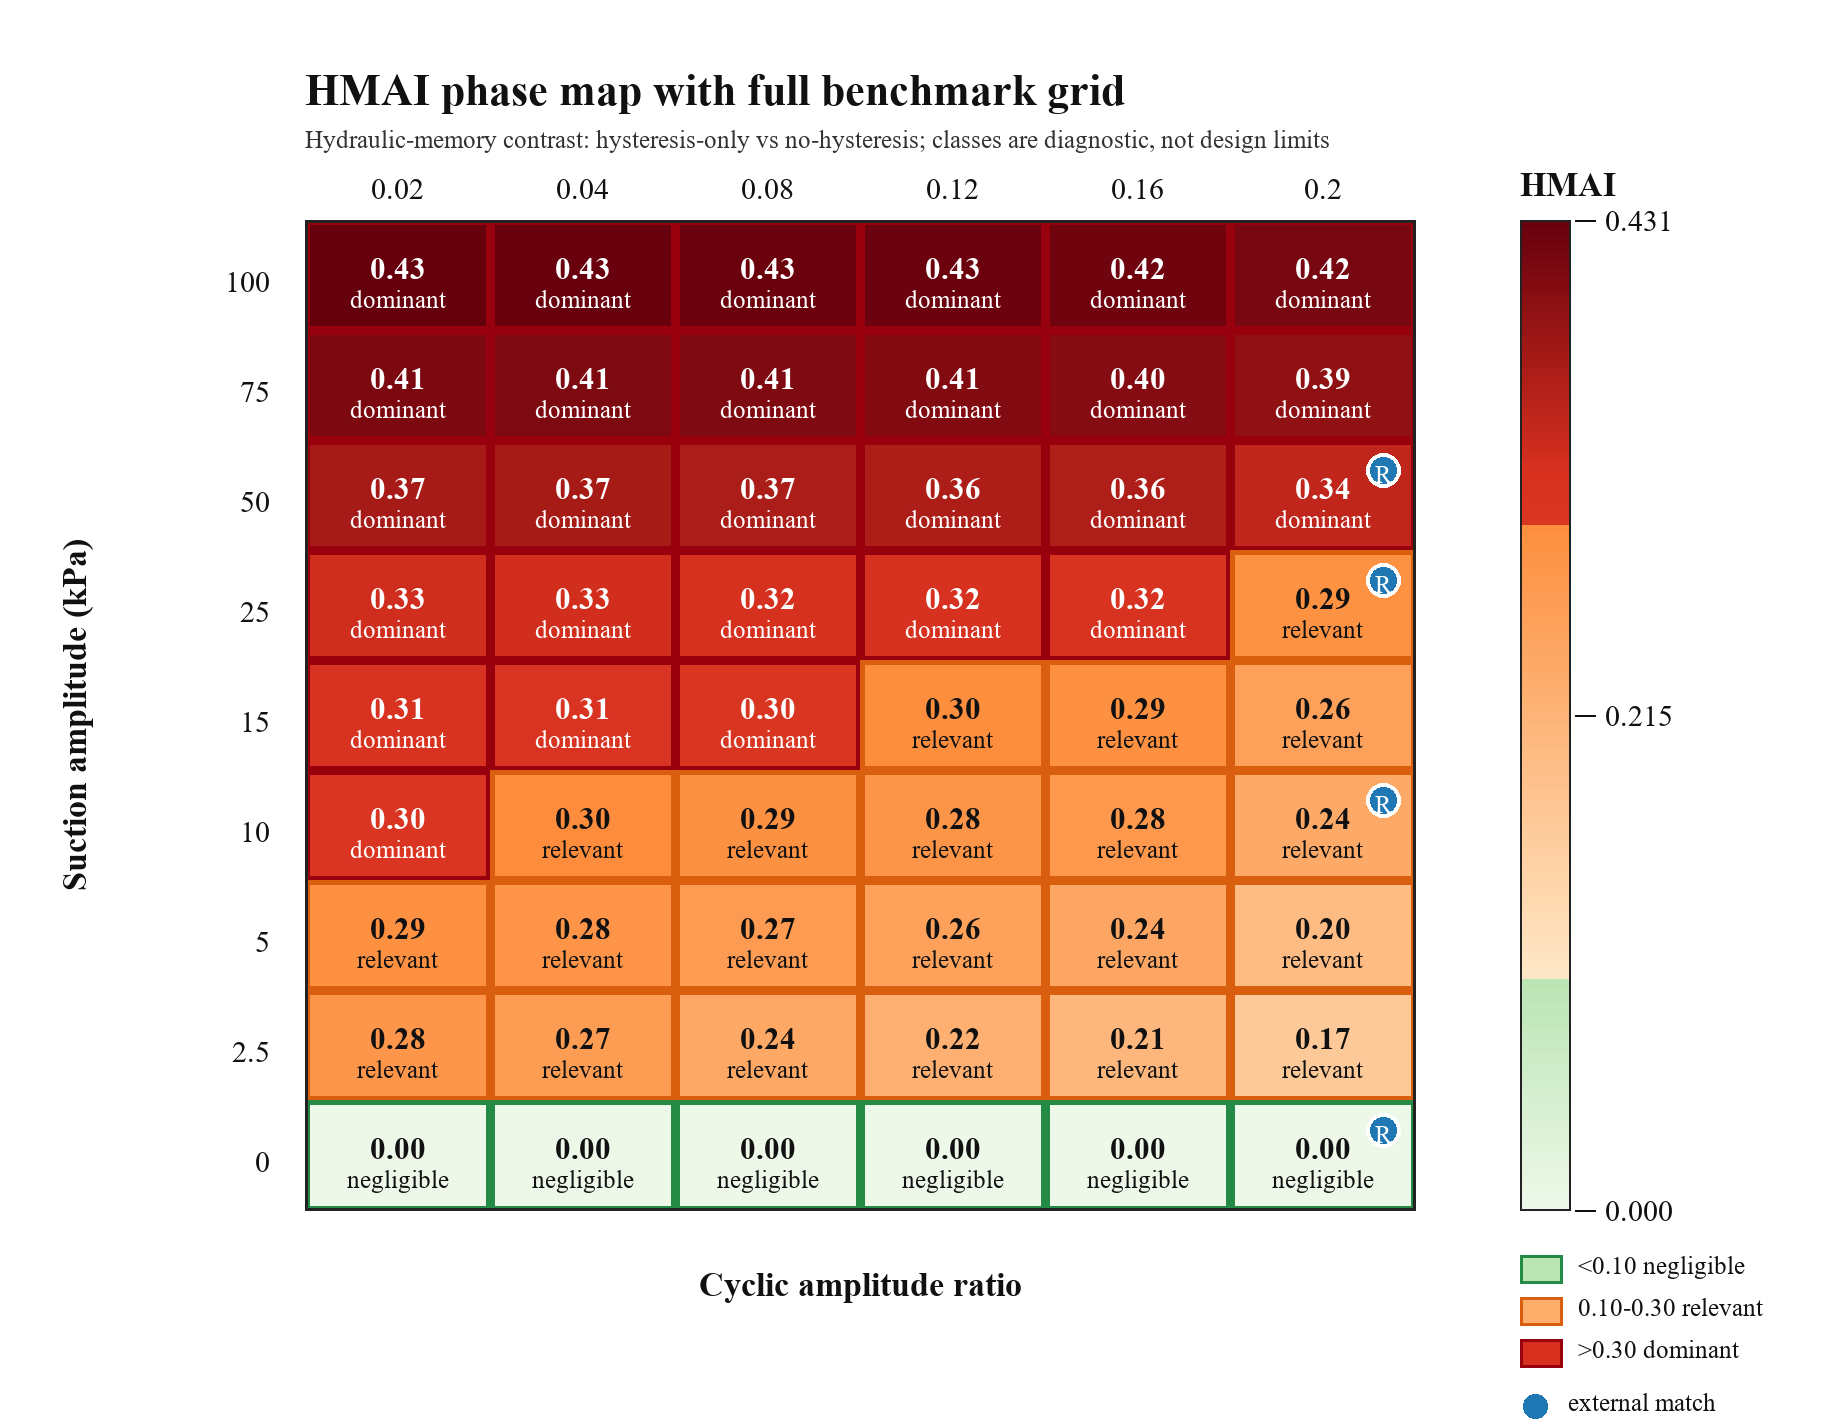
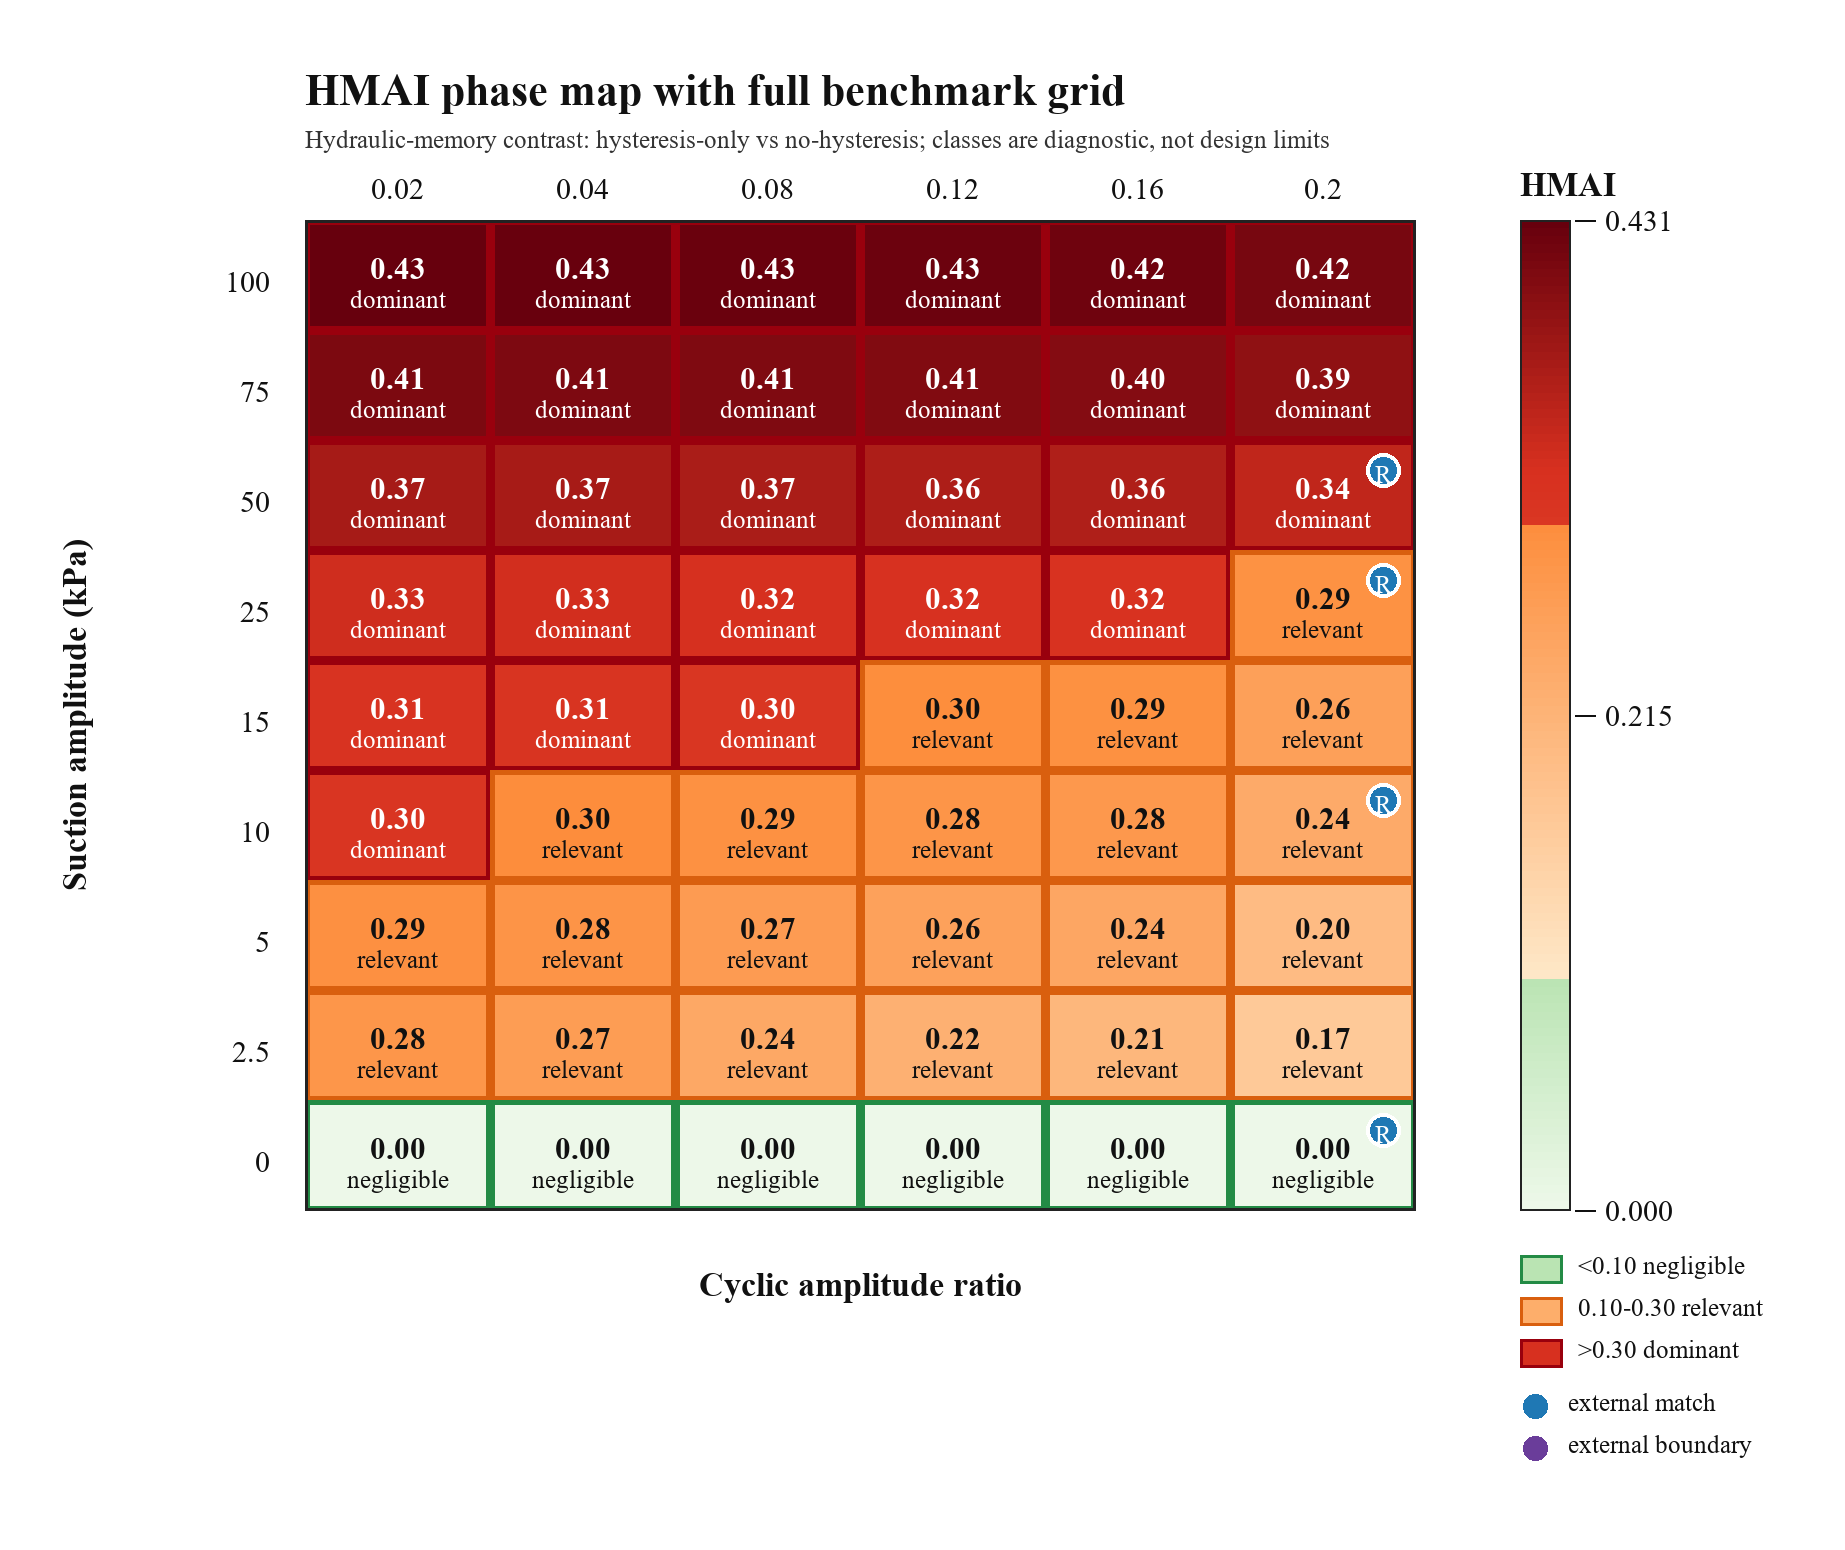
Regenerate figures and reproducibility logs for verified submission

diff --git a/scripts/run_unsat_cyclic_benchmark.py b/scripts/run_unsat_cyclic_benchmark.py
@@ -310,7 +310,7 @@ def draw_heat_table(summary: pd.DataFrame, out: Path):
     pivot = summary[summary["model"] == "full_hysteretic_damage"].pivot(
         index="suction_amp", columns="cyclic_amp", values="final_plastic_strain_index"
     )
-    w, h = 1200, 850
+    w, h = 1300, 1260
     img = Image.new("RGB", (w, h), "white")
     d = ImageDraw.Draw(img)
     title_font = font(34, bold=True)
@@ -342,7 +342,7 @@ def draw_metric_heat_table(summary: pd.DataFrame, value_col: str, title: str, va
     pivot = summary[summary["model"] == "full_hysteretic_damage"].pivot(
         index="suction_amp", columns="cyclic_amp", values=value_col
     )
-    w, h = 1200, 850
+    w, h = 1300, 1260
     img = Image.new("RGB", (w, h), "white")
     d = ImageDraw.Draw(img)
     title_font = font(34, bold=True)

diff --git a/scripts/plot_hmai_heatmap.py b/scripts/plot_hmai_heatmap.py
@@ -71,7 +71,7 @@ def main() -> int:
 
     left, top = 305, 220
     cell_w, cell_h = 185, 110
-    legend_w, bottom_pad = 430, 210
+    legend_w, bottom_pad = 430, 340
     w = left + len(xvals) * cell_w + legend_w
     h = top + len(yvals) * cell_h + bottom_pad
     img = Image.new("RGB", (w, h), "white")